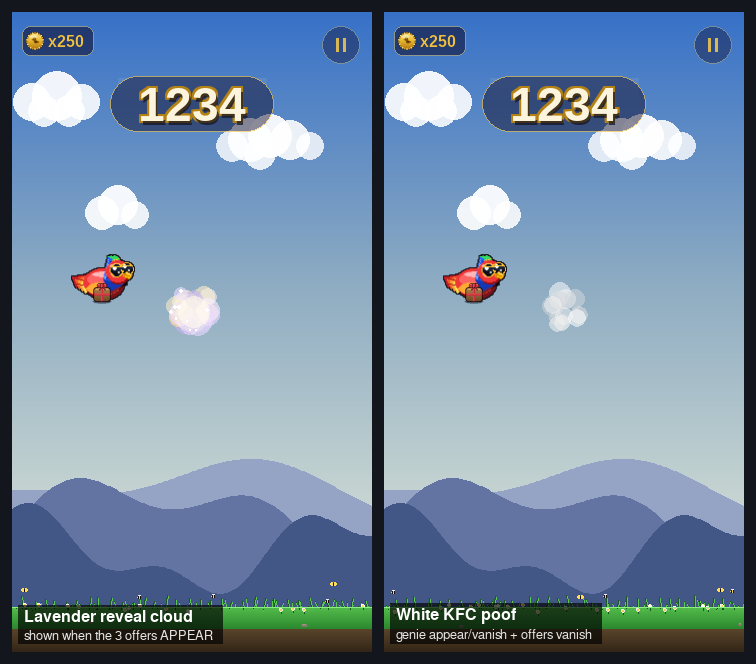
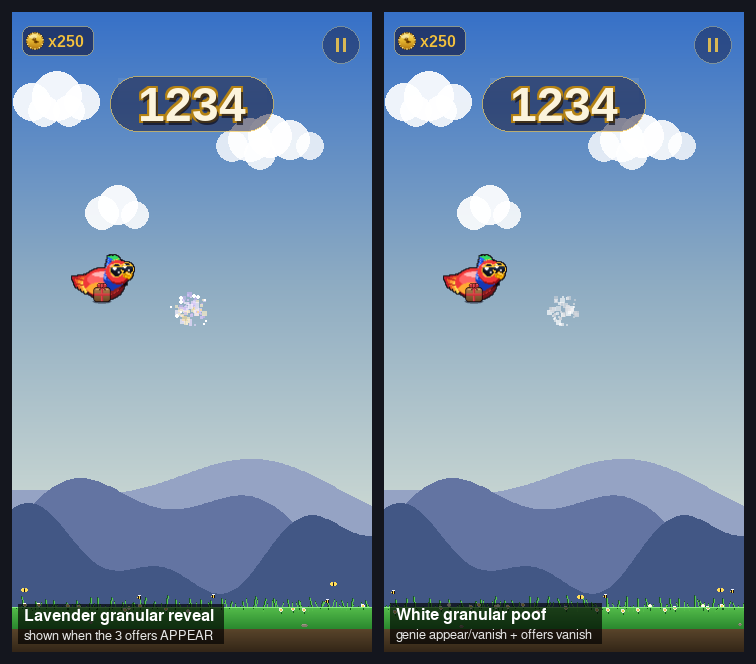
genie: granular (non-circular) poofs via PoofGrain
Replaces the smooth CloudPuff circles in the genie poofs with PoofGrain
— a dense burst of small square smoke grains that drift, settle, and
fade — so the appear/vanish, the unchosen-offer vanish, and the offer
reveal all read as fine granular smoke instead of soft bubbles. White
grains for the transformation poofs, lavender/gold grains for the reveal.
Regenerates the poof comparison + offer-vanish demos.

https://claude.ai/code/session_01Ms85cBEeRiAtxZBCNh5vN5

diff --git a/game/world.py b/game/world.py
@@ -44,6 +44,7 @@ from game.config import (
 from game.entities import (
     Bird, Pipe, Coin, PowerUp, Particle, CloudPuff, FloatText,
     TreasureCoinParticle, FlyingCoinParticle, Ramp, TrickBubble,
+    PoofGrain,
 )
 from game._proof import ProofState
 from game.draw import (
@@ -2193,42 +2194,36 @@ class World:
             color = random.choice(puff_colors)
             self.particles.append(CloudPuff(x, y, vx, vy, life, r0, r1, color))
 
+    def _spawn_grainy_poof(self, x, y, palette=None, n=56):
+        """Granular poof — a dense burst of small square GRAINS
+        (PoofGrain) instead of a few smooth cloud circles, so it reads
+        as fine smoke/dust. White smoke by default (genie appear /
+        vanish + unchosen offers); pass `palette` for the lavender
+        genie-reveal variant."""
+        if palette is None:
+            palette = [(255, 255, 255), (240, 240, 242),
+                       (224, 226, 230), (208, 212, 218)]
+        for _ in range(n):
+            ang = random.uniform(0, math.tau)
+            sp  = random.uniform(25, 170)
+            vx  = math.cos(ang) * sp
+            vy  = math.sin(ang) * sp - random.uniform(8, 48)
+            life = random.uniform(0.35, 0.72)
+            size = random.randint(2, 5)
+            self.particles.append(
+                PoofGrain(x, y, vx, vy, life, size, random.choice(palette)))
+
     def _spawn_genie_reveal_poof(self, x, y):
-        """Big dramatic poof when a Genie offer materialises — modelled
-        on _spawn_poof (the KFC transformation cloud) so the powerup
-        appears in a CLEAR puff of magical cloud, not a wisp.
-        Lavender + cream + gold palette so it reads as genie magic
-        rather than the KFC transformation."""
-        puff_colors = [
-            (250, 240, 255), (235, 220, 255),
-            (220, 200, 250), (255, 240, 200),
-            (255, 220, 140), (200, 180, 240),
-        ]
-        # Big cloud burst (18 puffs, larger radii + life than the
-        # original tiny wisp).
-        for _ in range(18):
-            angle = random.uniform(0, math.pi * 2)
-            speed = random.uniform(60, 150)
-            vx    = math.cos(angle) * speed
-            vy    = math.sin(angle) * speed - random.uniform(12, 40)
-            life  = random.uniform(0.40, 0.65)
-            r0    = random.randint(5, 11)
-            r1    = random.randint(16, 28)
-            color = random.choice(puff_colors)
-            self.particles.append(CloudPuff(x, y, vx, vy, life, r0, r1, color))
-        # A bright central flash burst — a few high-alpha puffs that
-        # POP at the centre to sell the "magical appearance" beat.
-        for _ in range(4):
-            angle = random.uniform(0, math.pi * 2)
-            speed = random.uniform(20, 50)
-            vx    = math.cos(angle) * speed
-            vy    = math.sin(angle) * speed - random.uniform(8, 20)
-            self.particles.append(CloudPuff(
-                x, y, vx, vy,
-                random.uniform(0.18, 0.28),
-                10, 22, (255, 250, 235)))
-        # Gold sparkle accents (use the existing Particle class so
-        # they twinkle as small gravity-affected dots).
+        """Granular lavender poof when a Genie offer materialises — the
+        same grainy style as the white transformation poof, but in the
+        magical lavender/cream/gold palette so the 'wish appears' beat
+        still reads distinct from the white vanish poof. A few gold
+        sparkle dots twinkle on top for the magic accent."""
+        self._spawn_grainy_poof(x, y, palette=[
+            (250, 240, 255), (235, 220, 255), (220, 200, 250),
+            (255, 240, 200), (255, 220, 140), (200, 180, 240),
+        ], n=66)
+        # Gold sparkle accents (small gravity-affected twinkle dots).
         for _ in range(10):
             angle = random.uniform(0, math.pi * 2)
             speed = random.uniform(80, 160)
@@ -2470,10 +2465,9 @@ class World:
             if p is chosen or not getattr(p, "is_genie_offer", False):
                 continue
             p.collected = True
-            # The two unchosen wishes evaporate with the SAME mature poof
-            # Pip uses when he reverts from KFC mode (World._spawn_poof),
-            # so taking one offer reads as the others puffing away.
-            self._spawn_poof(p.x, p.y)
+            # The two unchosen wishes evaporate in a granular white poof
+            # (fine smoke grains, not soft circles).
+            self._spawn_grainy_poof(p.x, p.y)
         # Kill any active GenieCharacter so its remaining cast beats
         # don't spawn orphan offers after the player has locked in
         # their pick.

diff --git a/game/entities.py b/game/entities.py
@@ -3311,6 +3311,45 @@ class CloudPuff:
         surf.blit(s, (int(self.x - r - 1), int(self.y - r - 1)))
 
 
+class PoofGrain:
+    """A single grain of a GRANULAR poof — a small soft SQUARE (not a
+    circle) that drifts outward, slows like settling dust, and fades.
+    Many grains per burst give the poof a fine, granular texture
+    instead of a few smooth cloud circles."""
+    __slots__ = ("x", "y", "vx", "vy", "life", "life_max", "size", "color")
+
+    def __init__(self, x, y, vx, vy, life, size, color):
+        self.x, self.y   = float(x), float(y)
+        self.vx, self.vy = vx, vy
+        self.life = self.life_max = life
+        self.size = size
+        self.color = color
+
+    def update(self, dt):
+        self.x += self.vx * dt
+        self.y += self.vy * dt
+        # Ease the grains to a near-stop so the burst hangs like a
+        # cloud of fine dust rather than flying apart.
+        self.vx *= 0.88
+        self.vy *= 0.88
+        self.vy += 26 * dt           # gentle settle
+        self.life -= dt
+
+    def alive(self):
+        return self.life > 0
+
+    def draw(self, surf):
+        t = max(0.0, self.life / self.life_max)      # 1→0 as it dies
+        alpha = int(225 * t)
+        if alpha <= 0:
+            return
+        # Grains grow a touch as the puff blooms, then fade in place.
+        sz = max(1, int(self.size * (1.4 - 0.4 * t)))
+        s = pygame.Surface((sz, sz), pygame.SRCALPHA)
+        s.fill((*self.color, alpha))
+        surf.blit(s, (int(self.x - sz / 2), int(self.y - sz / 2)))
+
+
 # ── GenieShineParticle ───────────────────────────────────────────────────────
 
 
@@ -3670,15 +3709,14 @@ class GenieCharacter:
                 cx, cy, vx, vy, life, 3, 11, color))
 
     def _spawn_appear_poof(self):
-        """Materialise flourish — reuses the KFC transformation cloud
-        (World._spawn_poof) so the genie pops in with the same mature
-        puff Pip uses when he reverts from KFC mode."""
-        self.world._spawn_poof(self.x, self.y)
+        """Materialise flourish — a granular white poof (fine smoke
+        grains, not soft circles) at the spawn point."""
+        self.world._spawn_grainy_poof(self.x, self.y)
 
     def _spawn_vanish_swirl(self):
-        """Disappear poof — the same KFC transformation cloud as the
-        appear, so the genie evaporates with a clean mature puff."""
-        self.world._spawn_poof(self.x, self.y)
+        """Disappear poof — the same granular white poof as the appear,
+        so the genie evaporates into fine smoke grains."""
+        self.world._spawn_grainy_poof(self.x, self.y)
 
     # ── render ───────────────────────────────────────────────────────────
     def draw(self, surf):

diff --git a/tools/render_poof_compare.py b/tools/render_poof_compare.py
@@ -60,11 +60,11 @@ def _poof_frame(spawn_fn, line1, line2):
 def main():
     left = _poof_frame(
         lambda w, x, y: w._spawn_genie_reveal_poof(x, y),
-        "Lavender reveal cloud",
+        "Lavender granular reveal",
         "shown when the 3 offers APPEAR")
     right = _poof_frame(
-        lambda w, x, y: w._spawn_poof(x, y),
-        "White KFC poof",
+        lambda w, x, y: w._spawn_grainy_poof(x, y),
+        "White granular poof",
         "genie appear/vanish + offers vanish")
 
     margin = 12

diff --git a/tools/render_genie_offer_vanish.py b/tools/render_genie_offer_vanish.py
@@ -67,7 +67,7 @@ def main():
         w.bird.y = BIRD_Y; w.bird.vy = 0
         w.update(1 / 60.0)
     right = _frame(w)
-    _label(right, "Take 1 -> other 2 poof (KFC cloud)")
+    _label(right, "Take 1 -> other 2 poof (granular)")
 
     margin = 12
     sheet = pygame.Surface((W * 2 + margin * 3, H + margin * 2))
